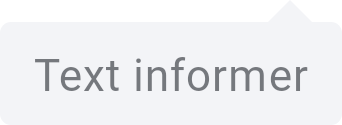
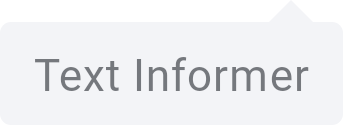
[FEATURE] - InformerSmall test by inflation

diff --git a/demo/src/androidTest/java/com/admiral/demo/views/InformerSmallTest.kt b/demo/src/androidTest/java/com/admiral/demo/views/InformerSmallTest.kt
@@ -41,7 +41,7 @@ class InformerSmallTest : ScreenshotTest {
         val informerSmall = InformerSmall(context).apply {
             this.isEnabled = isEnabled
             this.informerStyle = style
-            this.info = "Text informer"
+            this.info = "Text Informer"
             this.pointerBias = 0.9f
         }
         informerSmall.check()
